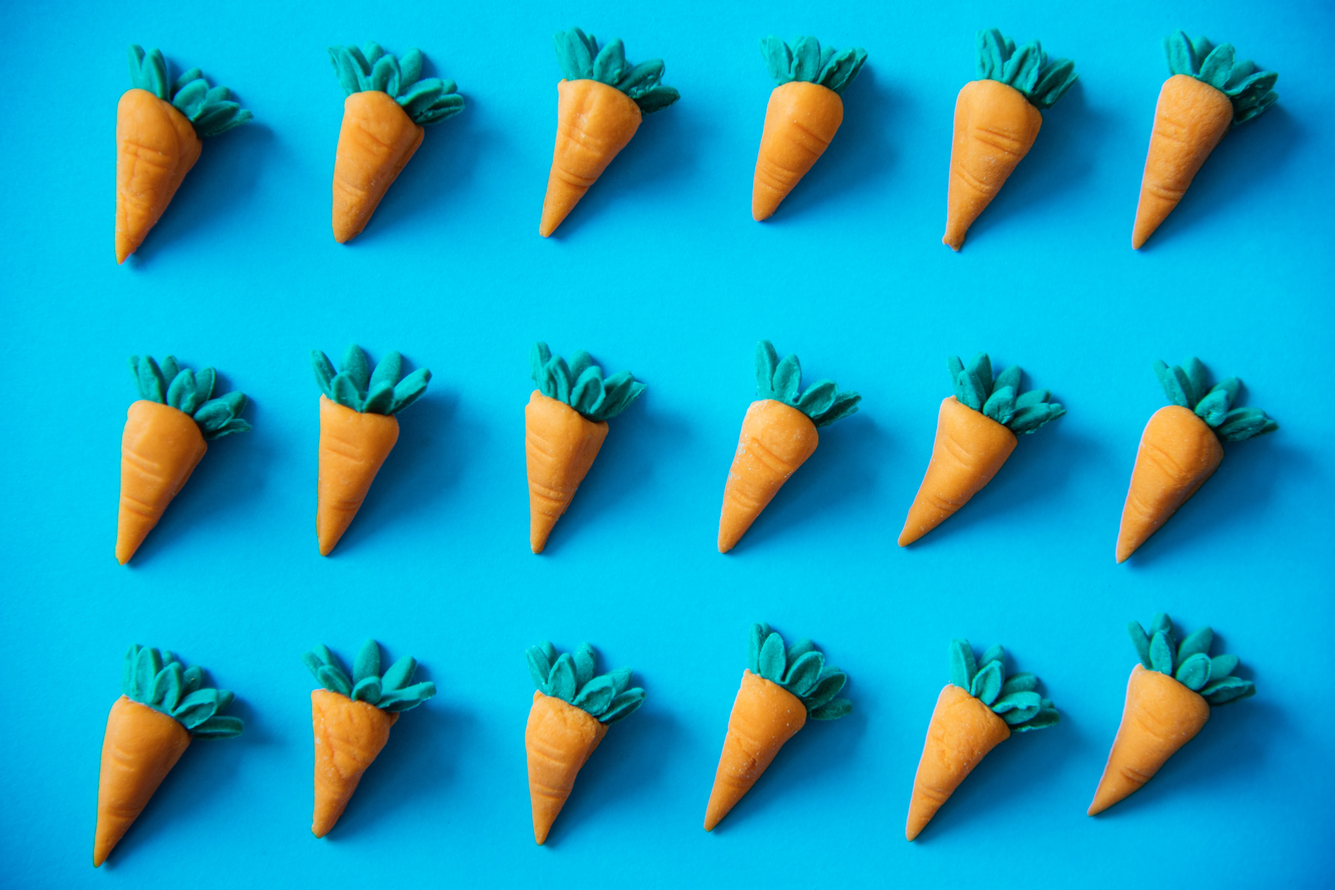
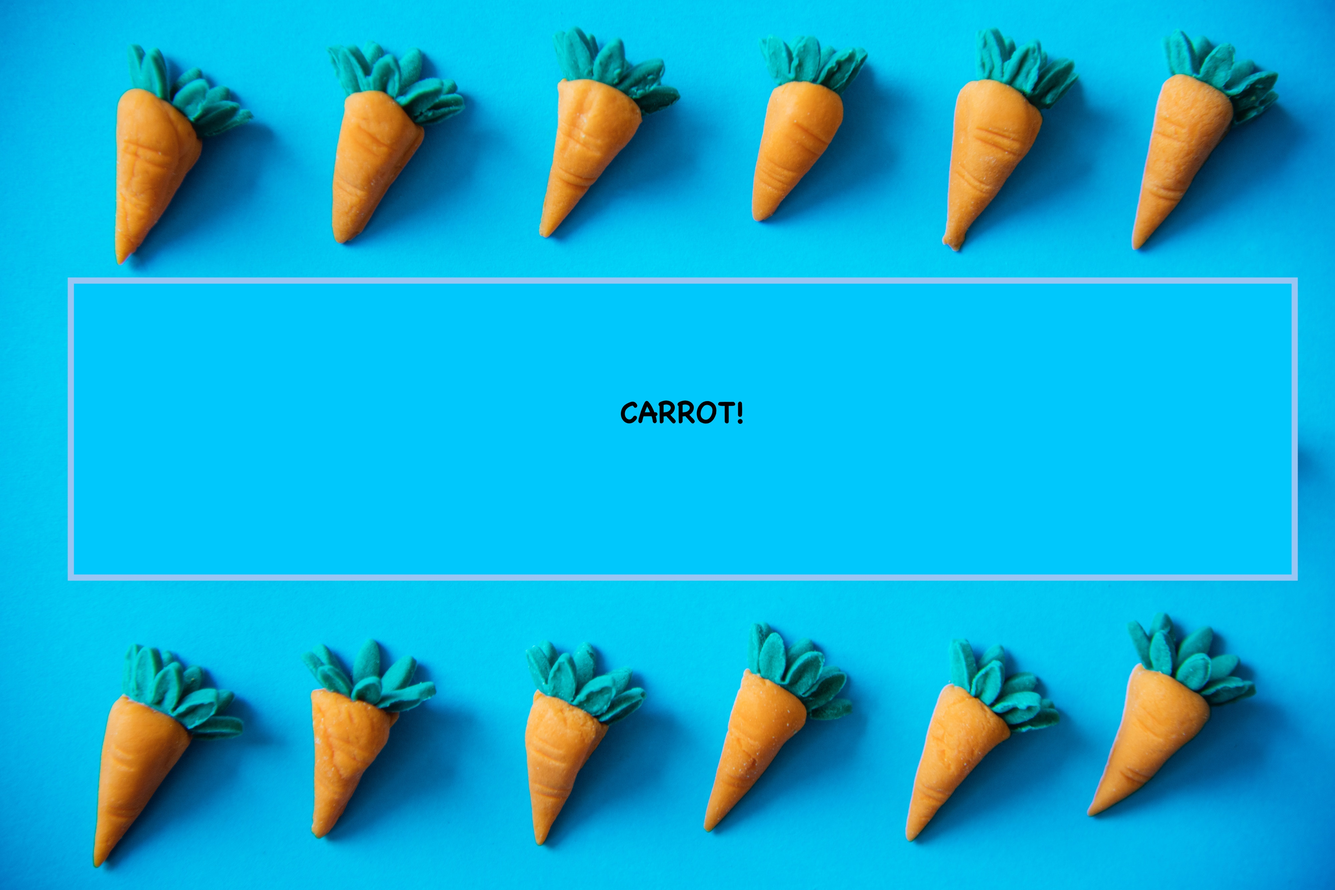
working on styling

Changed region(s): [[0.0312, 0.3112, 1.0, 0.6535]]

diff --git a/templates/base.html b/templates/base.html
@@ -16,12 +16,17 @@
   <script src="https://cdnjs.cloudflare.com/ajax/libs/corejs-typeahead/0.11.0/typeahead.bundle.js"></script>
   <script src="https://cdnjs.cloudflare.com/ajax/libs/corejs-typeahead/0.11.0/bloodhound.js"></script>
 
+  <link href="https://fonts.googleapis.com/css?family=Baloo+Bhai" rel="stylesheet">
+
 </head>
 <body>
 
-
-  <nav class="navbar navbar-expand-sm navbar-light" style="background-color: #e3f2fd;">
-  <a class="navbar-brand" href="#">User Options</a>
+<div class="container-fluid">
+  <nav class="navbar navbar-expand-sm navbar-light" style="background-color: blue;">
+  <a class="navbar-brand" href="#">
+    <img src="https://cdn.dribbble.com/users/28449/screenshots/1040285/cap-logo-ideas3_1x.png"
+    width="30" height="30" alt="">
+    </a>
   <button class="navbar-toggler" type="button" data-toggle="collapse" data-target="#navbarNav" aria-controls="navbarNav" aria-expanded="false" aria-label="Toggle navigation">
     <span class="navbar-toggler-icon"></span>
   </button>
@@ -29,6 +34,9 @@
     <ul class="navbar-nav">
       <li class="nav-item active">
         <a class="nav-link" href="/">Home<span class="sr-only">(current)</span></a>
+      </li>
+      <li class="nav-item">
+        <a class="nav-link" type="btn" data-toggle="modal" href="#behaviorBasics">Get started</a></a>
       </li>
       <!-- Makes sure only logged in users can search students -->
       {% if 'user_id' in session %}
@@ -61,6 +69,7 @@
     </ul>
   </div>
 </nav>
+</div>
 
   <ul>
         {% for message in get_flashed_messages() %}
@@ -216,6 +225,37 @@
       <div class="modal-footer">
         <input type="submit" id="new_user_submit", value="Register">
         </form>
+      </div>
+    </div>
+  </div>
+</div>
+
+<!-- Modal -->
+<div class="modal fade" id="behaviorBasics" tabindex="-1" role="dialog" aria-labelledby="behaviorBasics" aria-hidden="true">
+  <div class="modal-dialog" role="document">
+    <div class="modal-content">
+      <div class="modal-header">
+        <h5 class="modal-title" id="exampleModalLabel">Behavior Intervention Basics</h5>
+        <button type="button" class="close" data-dismiss="modal" aria-label="Close">
+          <span aria-hidden="true"></span>
+        </button>
+      </div>
+      <div class="modal-body">
+        <ol id="basics">
+            <li>Choose a behavior you'd like to address and thoughtfully select ONE intervention to address it. 
+            </li><br>
+            <li>Collect baseline data.  Collect 3-5 data-points before starting the intervention to determine the student’s baseline, or starting point, in the behavior that is being addressed. This baseline will be useful to compare to the the outcome and measure progress after implementing the intervention. 
+            </li><br>
+            <li>Determine the length of the intervention.  Good practice suggests 6 weeks, or at least 6 data points, to evaluate meaningful progress.
+            </li><br>
+            <li>Based on the baseline and the length of the intervention, determine the intervention goal.  
+            </li><br>
+            <li>Once you've tried the intervention for the determined timeframe, evaluate progress.  This is a good opportunity to reflect on how appropriate the intervention was for the targetted behavior, strategize next steps, and celebrate student success!  
+            </li><br>
+        </ol}>
+      </div>
+      <div class="modal-footer">
+        <button type="button" class="btn btn-secondary" data-dismiss="modal">Close</button>
       </div>
     </div>
   </div>

diff --git a/templates/homepage.html b/templates/homepage.html
@@ -3,10 +3,10 @@
 
 <style>
 body {
-    background: url(/static/images/carrots.jpg) no-repeat center center;
+    background: url(/static/images/homepage.jpg) no-repeat center center;
     background-size: cover;
     height: 800px;
-    width: 800px
+    width: 800px;
 }
 </style>
 
@@ -65,47 +65,22 @@ body {
   </div>
 </div>
 
-<div class="container">
-    <div class="row justify-content-md-center">
-<h2>Carrot!</h2>
+<style>
+h1 {
+    position: fixed;
+    top: 30%;
+    left: 50%;
+    transform: translate(-70%, -50%);
+    font-weight: bold;
+    font-family: 'Baloo Bhai', cursive;
+    font-size: 100px;
+    color: blue;
+}
+</style>
+
+<div id="title">
+<h1>carrot</h1>
     </div>
-
-<!-- Button trigger modal -->
-<button type="button" class="btn btn-primary" data-toggle="modal" data-target="#behaviorBasics">
-  Behavior Intervention Basics
-</button>
-
-
-<!-- Modal -->
-<div class="modal fade" id="behaviorBasics" tabindex="-1" role="dialog" aria-labelledby="behaviorBasics" aria-hidden="true">
-  <div class="modal-dialog" role="document">
-    <div class="modal-content">
-      <div class="modal-header">
-        <h5 class="modal-title" id="exampleModalLabel">Behavior Intervention Basics</h5>
-        <button type="button" class="close" data-dismiss="modal" aria-label="Close">
-          <span aria-hidden="true"></span>
-        </button>
-      </div>
-      <div class="modal-body">
-        <ol id="basics">
-            <li>Choose a behavior you'd like to address and thoughtfully select ONE intervention to address it. 
-            </li><br>
-            <li>Collect baseline data.  Collect 3-5 data-points before starting the intervention to determine the student’s baseline, or starting point, in the behavior that is being addressed. This baseline will be useful to compare to the the outcome and measure progress after implementing the intervention. 
-            </li><br>
-            <li>Determine the length of the intervention.  Good practice suggests 6 weeks, or at least 6 data points, to evaluate meaningful progress.
-            </li><br>
-            <li>Based on the baseline and the length of the intervention, determine the intervention goal.  
-            </li><br>
-            <li>Once you've tried the intervention for the determined timeframe, evaluate progress.  This is a good opportunity to reflect on how appropriate the intervention was for the targetted behavior, strategize next steps, and celebrate student success!  
-            </li><br>
-        </ol}>
-      </div>
-      <div class="modal-footer">
-        <button type="button" class="btn btn-secondary" data-dismiss="modal">Close</button>
-      </div>
-    </div>
-  </div>
-</div>
 
 
 <!-- 
